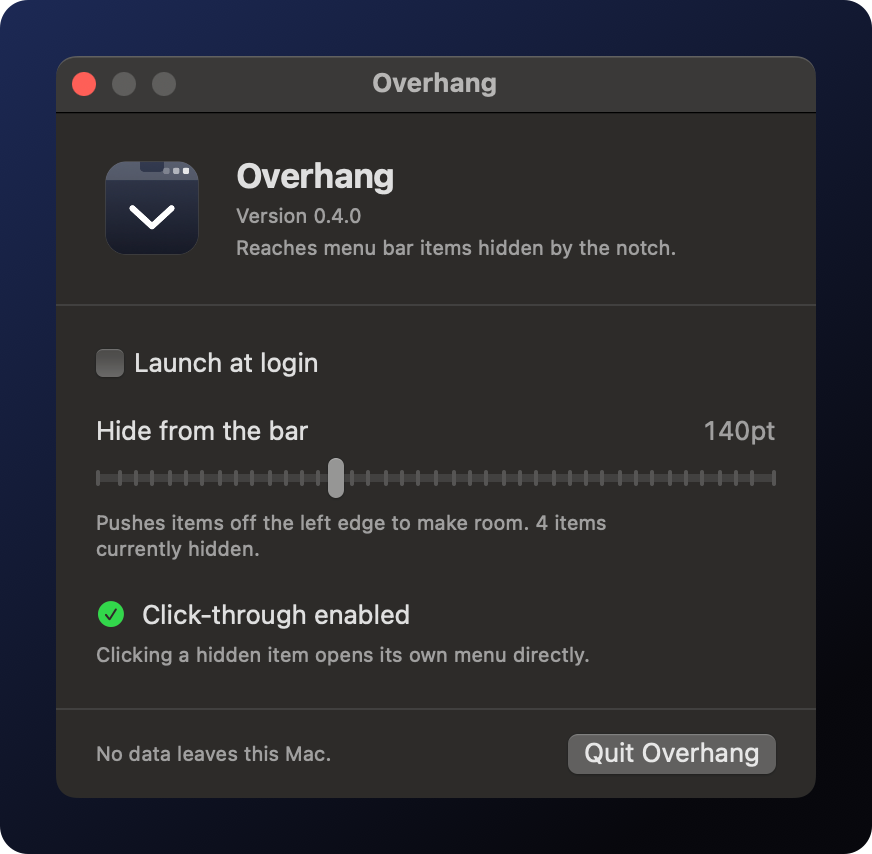
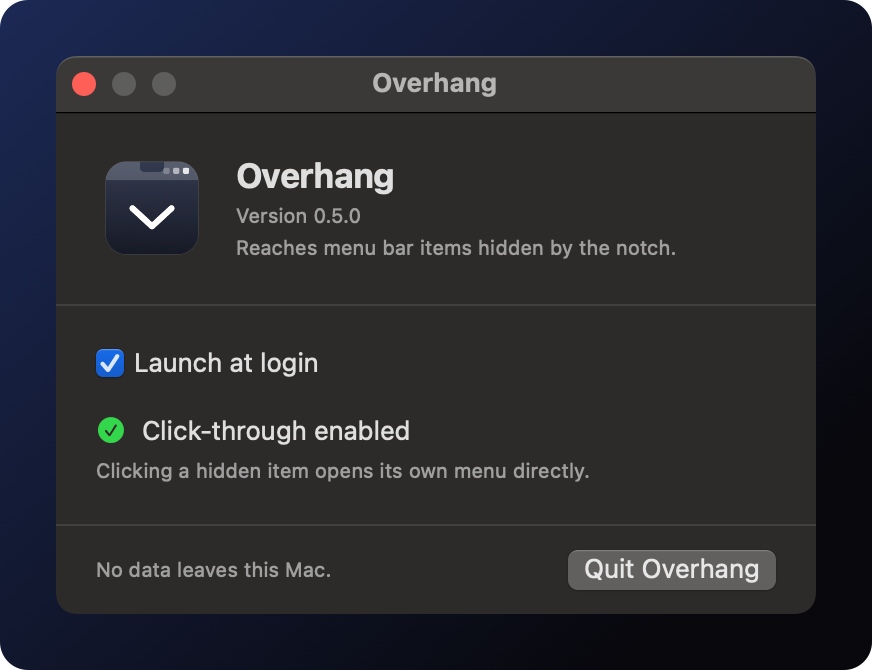
Screenshots recaptured for 0.5.0
Menu and settings captures now show the shipped UI: four hidden items and no
hide controls, and the two-toggle settings panel. Card composites regenerated;
README widths recomputed so both cards render at equal height against the new
aspect ratios.

diff --git a/README.md b/README.md
@@ -34,8 +34,8 @@ everything macOS dropped. Click an entry and that item's own menu opens.
 <br>
 
 <div align="center">
-<img src="site/img/menu-card.png" width="258" alt="Overhang's menu listing the status items macOS stopped drawing, each with its app icon">&nbsp;&nbsp;
-<img src="site/img/settings-card.png" width="378" alt="Overhang's settings window: launch at login and click-through">
+<img src="site/img/menu-card.png" width="285" alt="Overhang's menu listing the status items macOS stopped drawing, each with its app icon">&nbsp;&nbsp;
+<img src="site/img/settings-card.png" width="390" alt="Overhang's settings window: launch at login and click-through">
 </div>
 
 <br>
